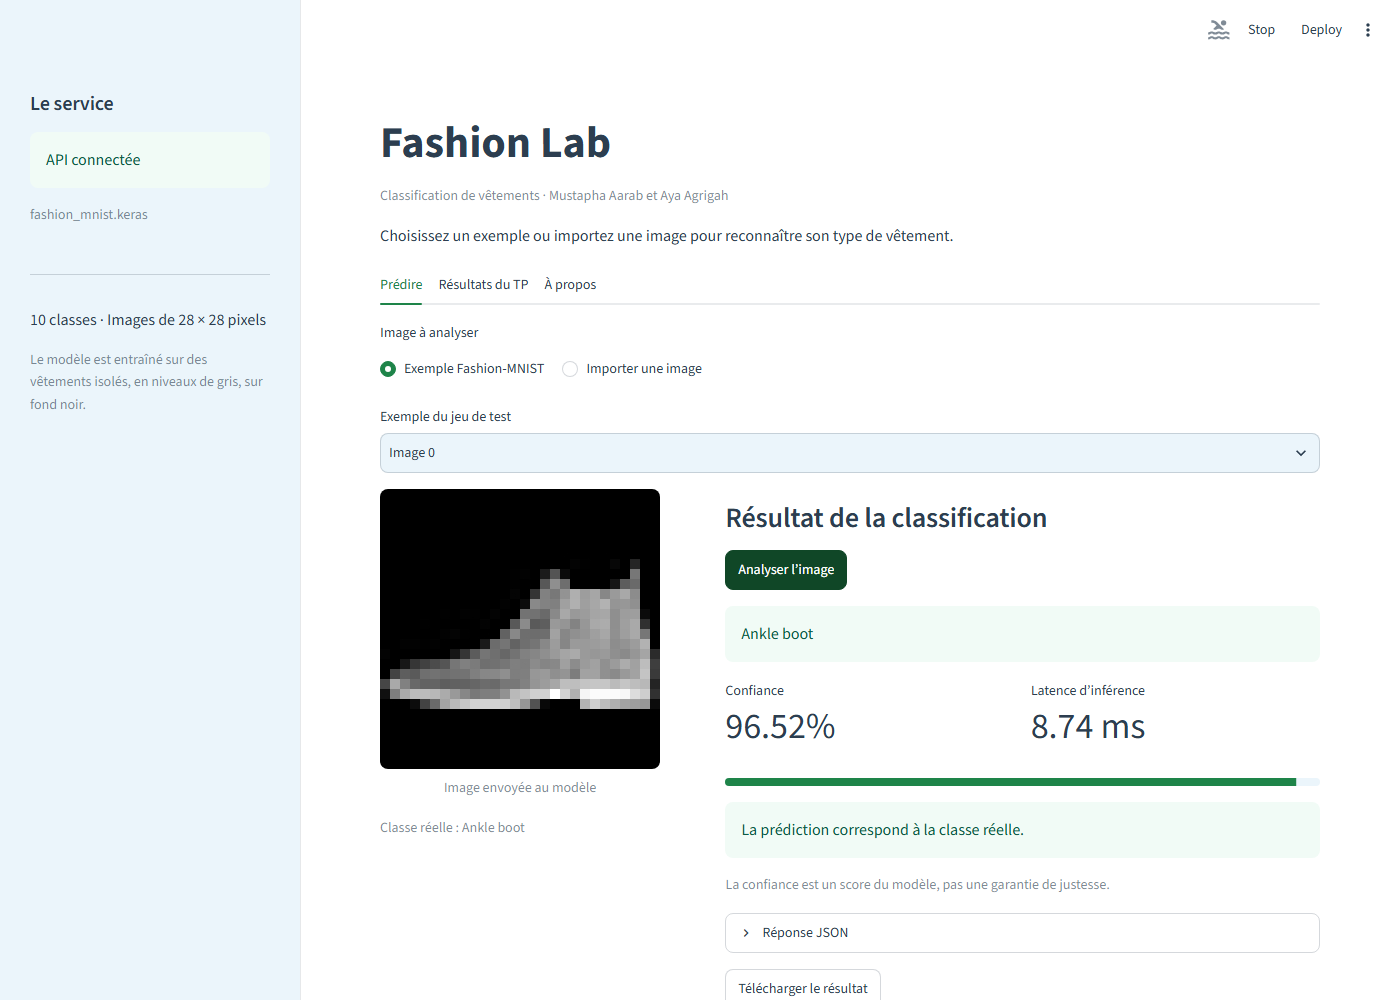
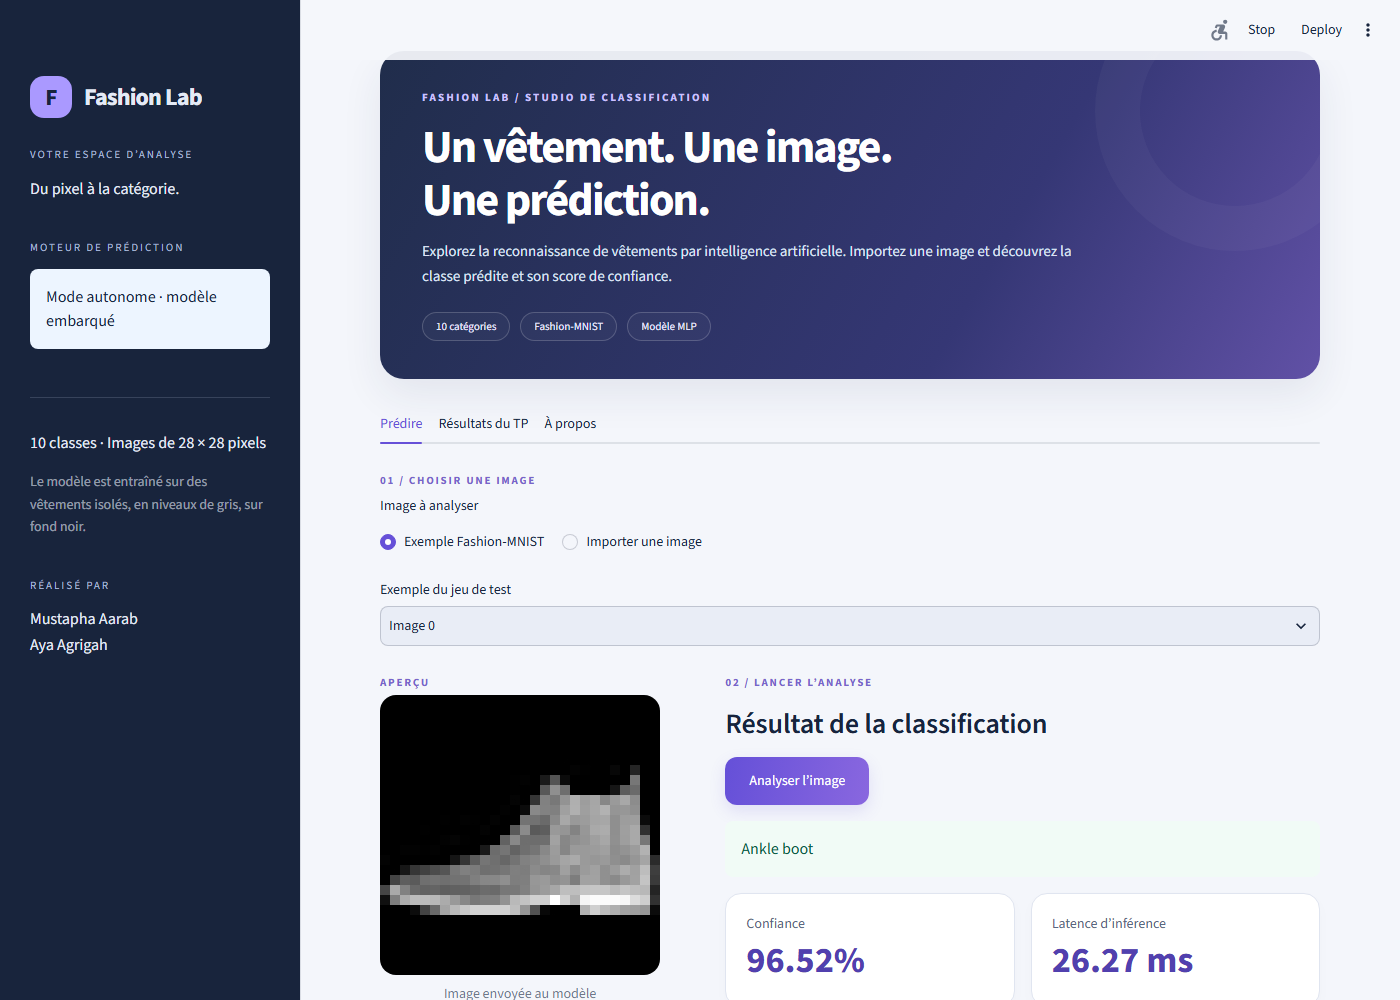
Restyle Fashion Lab with navy and violet visual design

diff --git a/styles.css b/styles.css
@@ -1,0 +1,41 @@
+:root { --ink:#17243d; --muted:#586781; --purple:#6650d8; }
+.stApp { background: #f4f6fb; color:var(--ink); }
+[data-testid="stHeader"] { background:rgba(244,246,251,.94); }
+.block-container { max-width:1250px; padding-top:2.2rem; padding-bottom:3rem; }
+[data-testid="stSidebar"] { background:#18243c; border-right:0; }
+[data-testid="stSidebar"] * { color:#e4eaf6; }
+[data-testid="stSidebar"] [data-testid="stAlert"] * { color:#17243d; }
+[data-testid="stSidebar"] hr { border-color:#37435b; }
+[data-testid="stSidebar"] code { color:#17243d; }
+.brand {display:flex; align-items:center; gap:12px; font-size:24px; font-weight:750; letter-spacing:-.8px; margin-bottom:28px; }
+.brand-icon {display:grid; place-items:center; width:42px; height:42px; background:#aa99ff; color:#18243c!important; border-radius:14px; font-size:23px; }
+.sidebar-label {font-size:11px; letter-spacing:2px; text-transform:uppercase; color:#a9b9d6!important; margin:22px 0 12px; }
+.hero {position:relative; overflow:hidden; padding:38px 42px; border-radius:24px; background:linear-gradient(120deg,#202d4b 0%,#353775 65%,#6151a6 100%); color:white; margin-bottom:25px; box-shadow:0 16px 40px #27345815; }
+.hero::after {content:''; position:absolute; width:280px; height:280px; border:45px solid #ffffff09; border-radius:50%; right:-55px; top:-80px; pointer-events:none; }
+.eyebrow {font-size:11px; font-weight:700; letter-spacing:2.2px; color:#ccc2ff; text-transform:uppercase; }
+.hero h1 {color:white; font-size:clamp(30px,4vw,46px); letter-spacing:-1.8px; line-height:1.15; padding:14px 0 12px; margin:0; max-width:720px; }
+.hero p {color:#dce3f4; font-size:15px; max-width:650px; line-height:1.7; margin:0; }
+.hero-tags {display:flex; flex-wrap:wrap; gap:10px; margin-top:22px; }
+.hero-tags span {border:1px solid #ffffff30; border-radius:100px; padding:5px 13px; font-size:11px; color:#e9e7ff; background:#ffffff08; }
+[data-baseweb="tab-list"] {gap:8px; background:#e9edf6; padding:6px; border-radius:14px; margin-bottom:24px; }
+[data-baseweb="tab"] {border-radius:10px; height:42px; padding:0 22px; font-weight:600; color:#586781; }
+[data-baseweb="tab"][aria-selected="true"] {background:white; color:#5542ba; box-shadow:0 2px 8px #27345810; }
+[data-baseweb="tab-highlight"], [data-baseweb="tab-border"] {display:none; }
+h2,h3 {color:#17243d; letter-spacing:-.6px; }
+.section-kicker {color:#7764cb; font-size:11px; text-transform:uppercase; letter-spacing:1.8px; font-weight:700; margin:12px 0 4px; }
+[data-testid="stVerticalBlockBorderWrapper"] > div {border-radius:20px!important; }
+[data-testid="stVerticalBlockBorderWrapper"] {background:white; border-radius:20px; }
+[data-testid="stMetric"] {background:white; border:1px solid #e0e5f0; border-radius:16px; padding:18px 20px; box-shadow:0 5px 15px #27345805; }
+[data-testid="stMetricLabel"] {color:#586781; }
+[data-testid="stMetricValue"] {color:#5140ae; font-weight:750; }
+.stButton > button[kind="primary"] {background:linear-gradient(100deg,#6550d8,#8967df); border:0; padding:12px 24px; min-height:48px; border-radius:12px; font-weight:700; box-shadow:0 6px 16px #6650d825; }
+.stButton > button[kind="primary"]:hover {background:#5542ba; box-shadow:0 8px 20px #6650d840; }
+.stDownloadButton > button {border:1px solid #d9dfeb; border-radius:11px; background:#fff; color:#4d438b; }
+[data-testid="stImage"] img {border-radius:16px; }
+[data-testid="stAlert"] {border-radius:12px; }
+.idle {border:1px dashed #cdd5e7; border-radius:18px; padding:38px 24px; margin-top:18px; text-align:center; background:linear-gradient(135deg,#f7f8ff,#eef6f8); }
+.idle-icon {font-size:32px; color:#7764cb; margin-bottom:10px; }
+.idle strong {display:block; font-size:18px; color:#293854; margin-bottom:10px; }
+.idle p {color:#65738c; font-size:14px; line-height:1.7; max-width:330px; margin:auto; }
+.footer {border-top:1px solid #dfe5f0; margin-top:36px; padding-top:18px; color:#67768e; font-size:12px; display:flex; flex-wrap:wrap; justify-content:space-between; gap:10px; }
+@media(max-width:700px) { .hero {padding:26px 22px;} .hero h1 {letter-spacing:-1px;} .block-container {padding:1.2rem 1rem;} [data-baseweb="tab"] {padding:0 10px; font-size:12px;} [data-testid="stMetric"] {padding:12px;} }

diff --git a/streamlit_app.py b/streamlit_app.py
@@ -10,9 +10,14 @@ from PIL import Image, ImageOps, UnidentifiedImageError
 
 ROOT = Path(__file__).resolve().parent
 st.set_page_config(page_title="Fashion Lab", page_icon="👕", layout="wide")
-st.title("Fashion Lab")
-st.caption("Classification de vêtements · Mustapha Aarab et Aya Agrigah")
-st.write("Choisissez un exemple ou importez une image pour reconnaître son type de vêtement.")
+st.markdown(f"<style>{(ROOT / 'styles.css').read_text(encoding='utf-8')}</style>", unsafe_allow_html=True)
+st.markdown('''<section class="hero">
+<div class="eyebrow">Fashion Lab / Studio de classification</div>
+<h1>Un vêtement. Une image.<br>Une prédiction.</h1>
+<p>Explorez la reconnaissance de vêtements par intelligence artificielle.
+Importez une image et découvrez la classe prédite et son score de confiance.</p>
+<div class="hero-tags"><span>10 catégories</span><span>Fashion-MNIST</span><span>Modèle MLP</span></div>
+</section>''', unsafe_allow_html=True)
 API_URL = os.environ.get("FASHION_API_URL", "").rstrip("/")
 
 
@@ -23,7 +28,9 @@ def local_backend():
     return ImageInput, predict
 
 with st.sidebar:
-    st.header("Le service")
+    st.markdown('<div class="brand"><span class="brand-icon">F</span>Fashion Lab</div><div class="sidebar-label">Votre espace d’analyse</div>', unsafe_allow_html=True)
+    st.write("Du pixel à la catégorie.")
+    st.markdown('<div class="sidebar-label">Moteur de prédiction</div>', unsafe_allow_html=True)
     try:
         if API_URL:
             response = requests.get(API_URL + "/health", timeout=5)
@@ -41,9 +48,12 @@ with st.sidebar:
     st.divider()
     st.write("10 classes · Images de 28 × 28 pixels")
     st.caption("Le modèle est entraîné sur des vêtements isolés, en niveaux de gris, sur fond noir.")
+    st.markdown('<div class="sidebar-label">Réalisé par</div>', unsafe_allow_html=True)
+    st.write("Mustapha Aarab  \nAya Agrigah")
 
 predict_tab, results_tab, about_tab = st.tabs(["Prédire", "Résultats du TP", "À propos"])
 with predict_tab:
+    st.markdown('<div class="section-kicker">01 / Choisir une image</div>', unsafe_allow_html=True)
     source = st.radio("Image à analyser", ["Exemple Fashion-MNIST", "Importer une image"], horizontal=True)
     pixels = None
     true_class = None
@@ -71,11 +81,13 @@ with predict_tab:
                 st.error(f"Impossible de lire cette image : {exc}")
     left, right = st.columns([1, 2], gap="large")
     with left:
+        st.markdown('<div class="section-kicker">Aperçu</div>', unsafe_allow_html=True)
         if pixels is not None:
             st.image(Image.fromarray(pixels).resize((280, 280), Image.Resampling.NEAREST), caption="Image envoyée au modèle", width=280)
             if true_class:
                 st.caption(f"Classe réelle : {true_class}")
     with right:
+        st.markdown('<div class="section-kicker">02 / Lancer l’analyse</div>', unsafe_allow_html=True)
         st.subheader("Résultat de la classification")
         if st.button("Analyser l’image", type="primary", disabled=pixels is None):
             try:
@@ -104,6 +116,10 @@ with predict_tab:
                 st.download_button("Télécharger le résultat", json.dumps(result, indent=2), "prediction.json", "application/json")
             except (requests.RequestException, ValueError, KeyError, ImportError, OSError) as exc:
                 st.error(f"La prédiction a échoué. Vérifiez le modèle et les dépendances, ou le serveur en mode API. {exc}")
+        else:
+            st.markdown('''<div class="idle"><div class="idle-icon">◈</div>
+<strong>Votre prochaine découverte commence ici</strong>
+<p>Sélectionnez une image, puis lancez l’analyse pour afficher la catégorie, la confiance et le temps de traitement.</p></div>''', unsafe_allow_html=True)
 
 with results_tab:
     data = json.loads((ROOT / "resultats/resultats.json").read_text(encoding="utf-8"))
@@ -123,3 +139,5 @@ with about_tab:
     st.write("Architecture : Flatten → Dense 128 avec ReLU → Dense 10. Le modèle contient 101 770 paramètres.")
     report = ROOT / "rapport/Rapport_FastAPI_Aarab_Agrigah.docx"
     st.download_button("Télécharger le rapport Word", report.read_bytes(), report.name, "application/vnd.openxmlformats-officedocument.wordprocessingml.document")
+
+st.markdown('<div class="footer"><span>Fashion Lab · Classification de vêtements</span><span>Mustapha Aarab &amp; Aya Agrigah · Projet FastAPI</span></div>', unsafe_allow_html=True)
